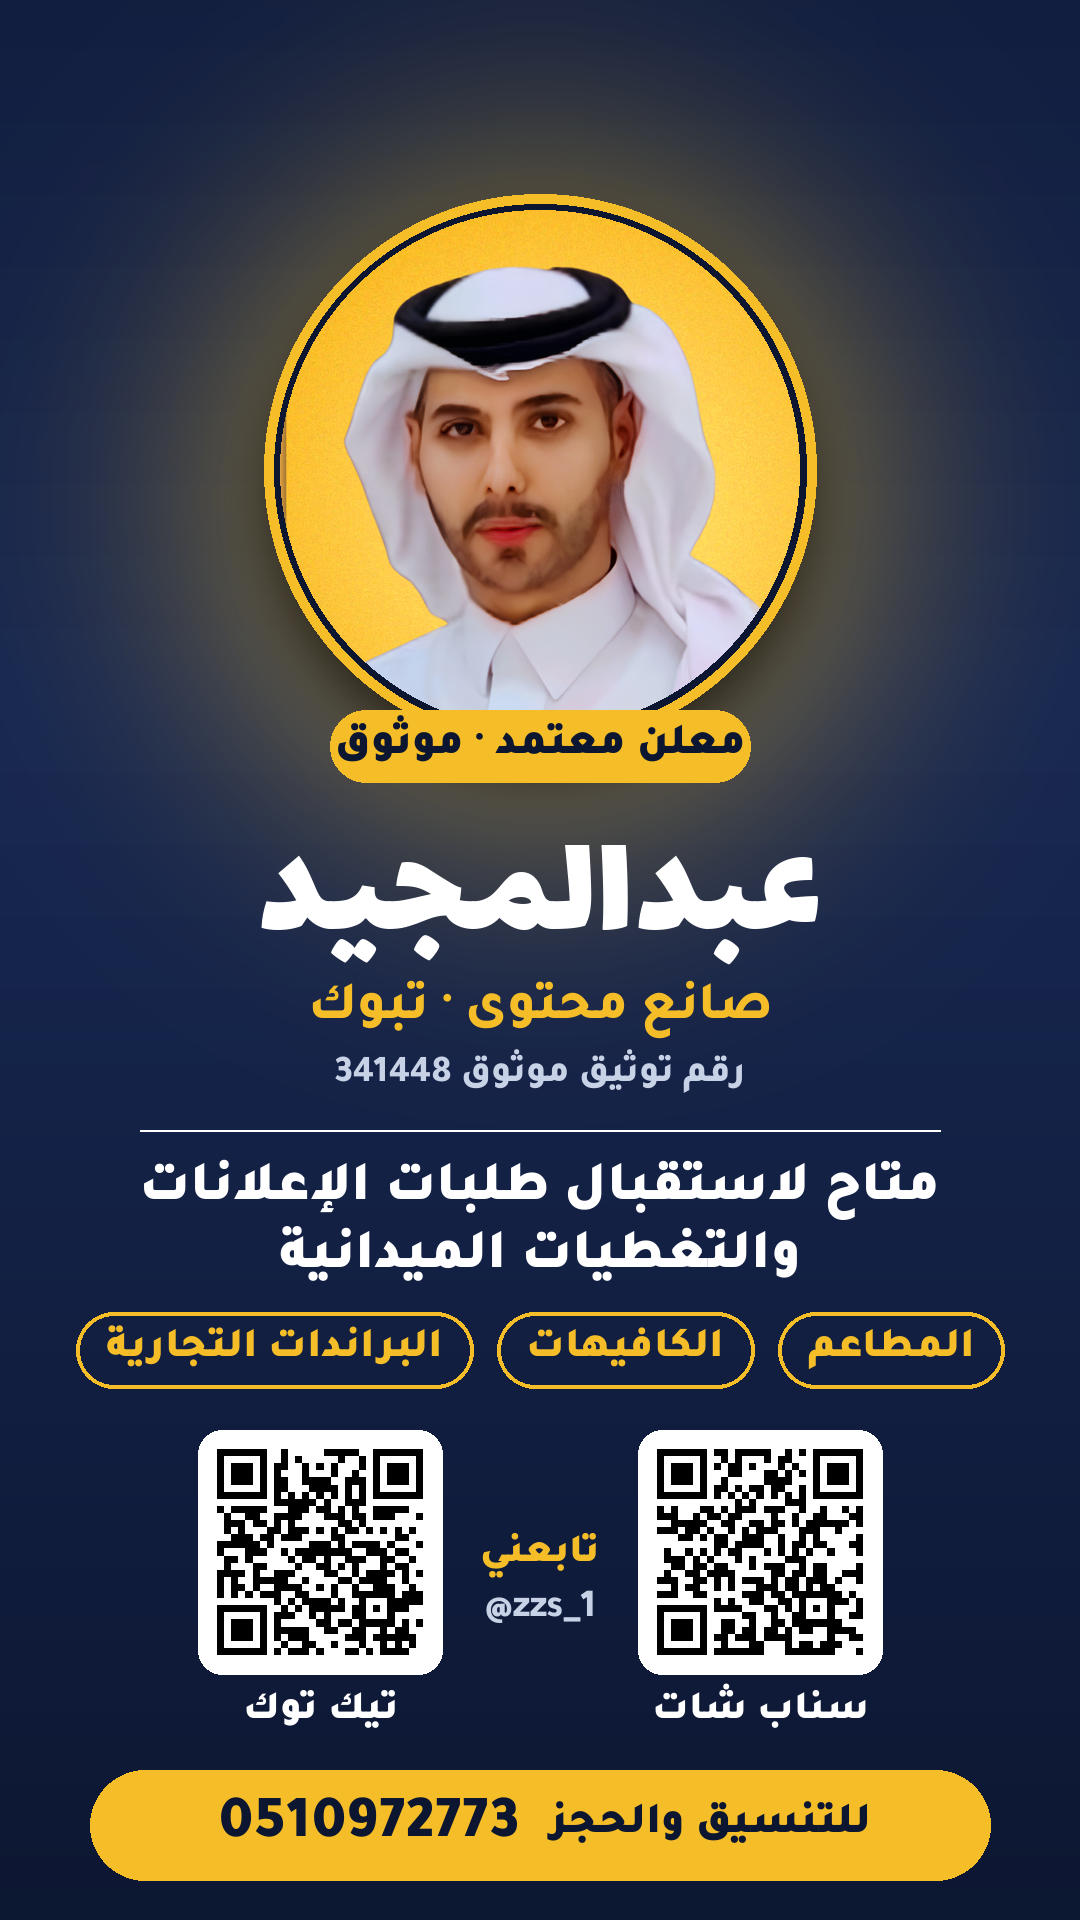
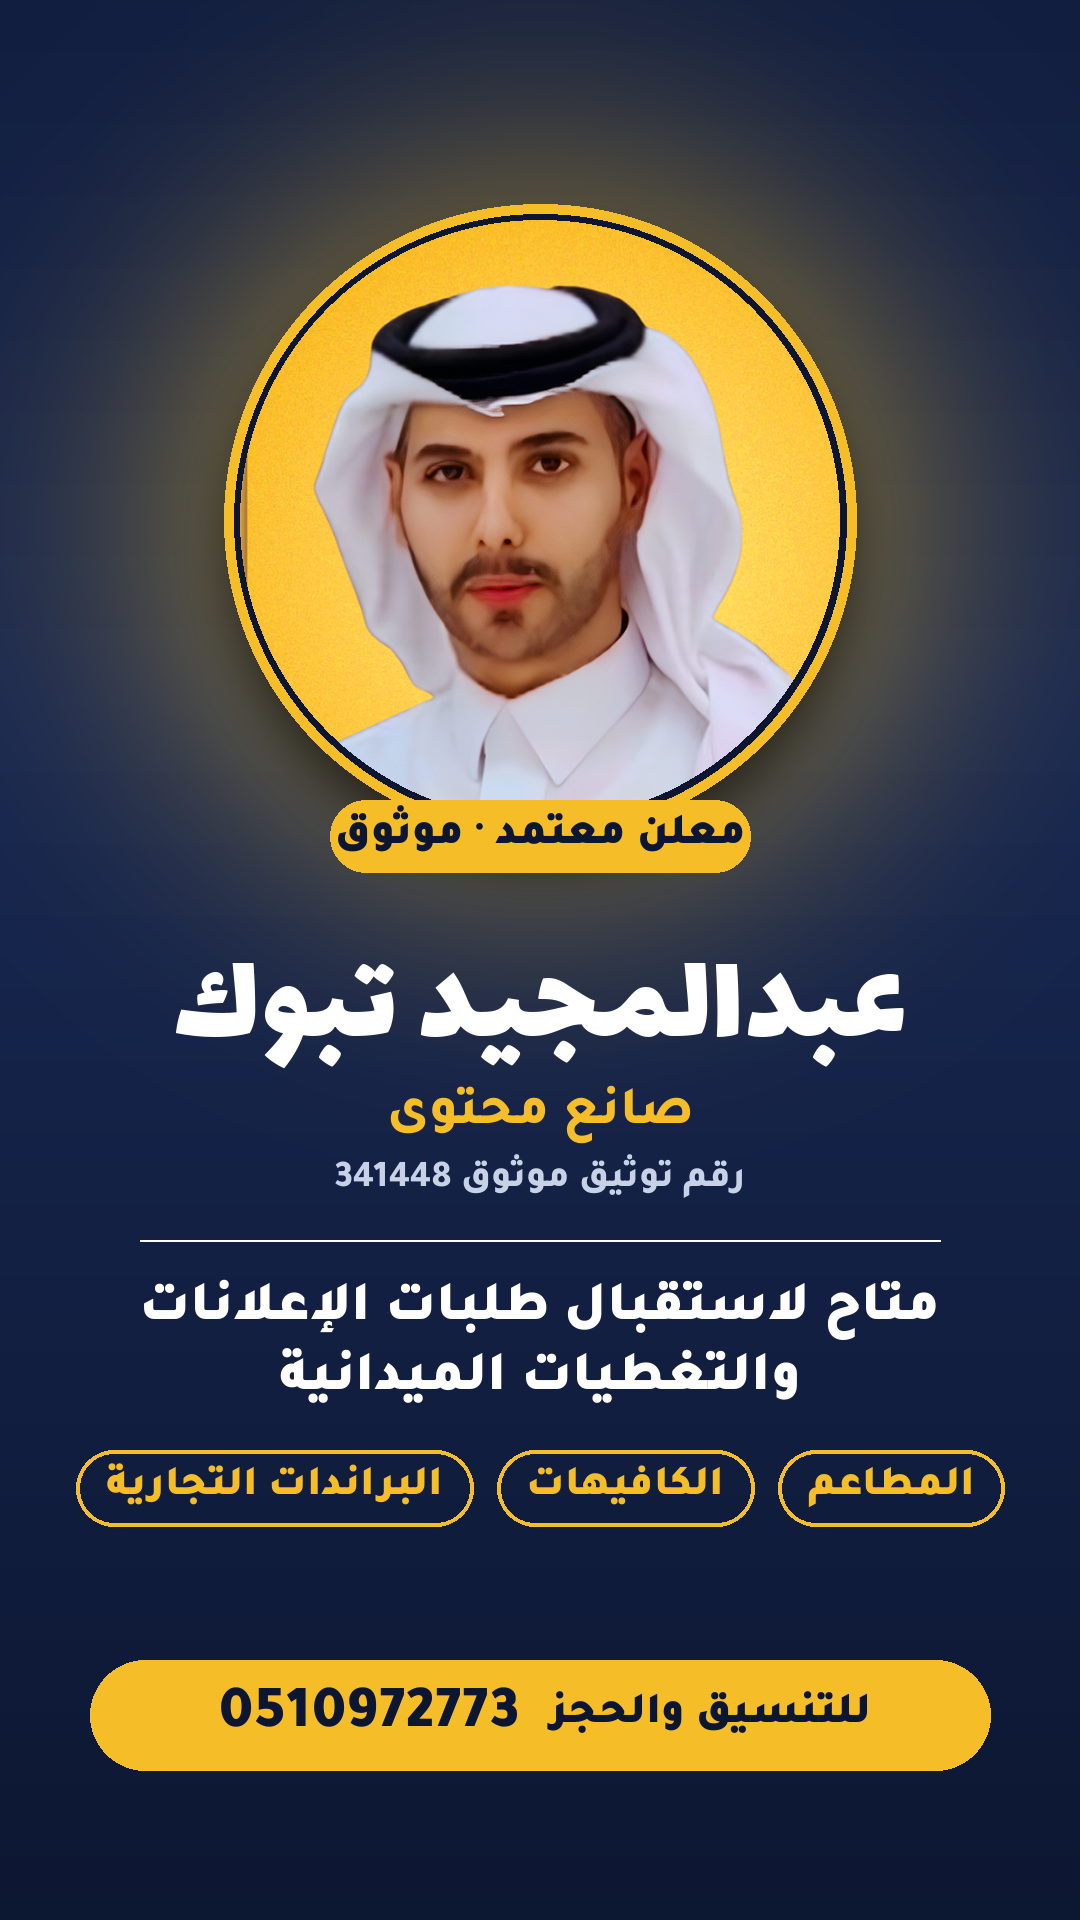
Poster: name عبدالمجيد تبوك, social QR codes removed
Claude-Session: https://claude.ai/code/session_01CcVGvtrbVu7xBBGWmrBYGh

diff --git a/poster/make_poster.py b/poster/make_poster.py
@@ -1,5 +1,5 @@
 """Ad-rate poster for عبدالمجيد (1080x1920 story size). usage: python3 -I make_poster.py photo.png out.png fonts_dir"""
-import sys, qrcode
+import sys
 from PIL import Image, ImageDraw, ImageFont, ImageFilter, ImageEnhance
 PH, OUT, FD = sys.argv[1:4]
 W, H = 1080, 1920
@@ -9,7 +9,7 @@ c = Image.new("RGB", (W, H), NAVY)
 # vertical gradient + soft gold glow
 g = Image.new("RGB", (1, H)); [g.putpixel((0, y), tuple(int(NAVY[i] + (NAVY2[i] - NAVY[i]) * (1 - abs(y - 700) / 1300)) for i in range(3))) for y in range(H)]
 c = g.resize((W, H))
-glow = Image.new("L", (W, H), 0); ImageDraw.Draw(glow).ellipse((190, 150, 890, 850), fill=120); glow = glow.filter(ImageFilter.GaussianBlur(120))
+glow = Image.new("L", (W, H), 0); ImageDraw.Draw(glow).ellipse((140, 150, 940, 900), fill=120); glow = glow.filter(ImageFilter.GaussianBlur(120))
 c.paste(Image.new("RGB", (W, H), GOLD), (0, 0), glow)
 d = ImageDraw.Draw(c)
 def text(xy, s, f, fill=WHITE, anchor="mm", stroke=0, sfill=None):
@@ -19,9 +19,9 @@ def text(xy, s, f, fill=WHITE, anchor="mm", stroke=0, sfill=None):
 p = Image.open(PH).convert("RGB")
 p = ImageEnhance.Contrast(ImageEnhance.Brightness(p).enhance(1.04)).enhance(1.06)
 p = ImageEnhance.Sharpness(p).enhance(1.3)
-D = 520; p = p.resize((D, D), Image.LANCZOS)
+D = 600; p = p.resize((D, D), Image.LANCZOS)
 m = Image.new("L", (D, D), 0); ImageDraw.Draw(m).ellipse((0, 0, D - 1, D - 1), fill=255)
-cx, cy = W // 2, 470
+cx, cy = W // 2, 520
 sh = Image.new("L", (W, H), 0); ImageDraw.Draw(sh).ellipse((cx - D // 2 - 10, cy - D // 2 + 20, cx + D // 2 + 10, cy + D // 2 + 40), fill=160)
 c.paste((0, 0, 0), (0, 0), sh.filter(ImageFilter.GaussianBlur(25)))
 d = ImageDraw.Draw(c)
@@ -32,32 +32,22 @@ c.paste(p, (cx - D // 2, cy - D // 2), m)
 d.rounded_rectangle((cx - 210, cy + D // 2 - 20, cx + 210, cy + D // 2 + 52), 36, fill=GOLD)
 text((cx, cy + D // 2 + 16), "معلن معتمد · موثوق", F("Tajawal-Black.ttf", 44), NAVY)
 # name + title
-text((cx, 900), "عبدالمجيد", F("Lalezar-Regular.ttf", 150), WHITE)
-text((cx, 1010), "صانع محتوى · تبوك", F("Tajawal-ExtraBold.ttf", 54), GOLD)
-text((cx, 1075), "رقم توثيق موثوق 341448", F("Tajawal-ExtraBold.ttf", 38), (200, 210, 230))
+text((cx, 1010), "عبدالمجيد تبوك", F("Lalezar-Regular.ttf", 130), WHITE)
+text((cx, 1115), "صانع محتوى", F("Tajawal-ExtraBold.ttf", 54), GOLD)
+text((cx, 1180), "رقم توثيق موثوق 341448", F("Tajawal-ExtraBold.ttf", 38), (200, 210, 230))
 # services
-d.line((140, 1130, 940, 1130), fill=(255, 255, 255, 60), width=2)
-text((cx, 1190), "متاح لاستقبال طلبات الإعلانات", F("Tajawal-Black.ttf", 56), WHITE)
-text((cx, 1258), "والتغطيات الميدانية", F("Tajawal-Black.ttf", 56), WHITE)
+d.line((140, 1240, 940, 1240), fill=(255, 255, 255, 60), width=2)
+text((cx, 1310), "متاح لاستقبال طلبات الإعلانات", F("Tajawal-Black.ttf", 56), WHITE)
+text((cx, 1380), "والتغطيات الميدانية", F("Tajawal-Black.ttf", 56), WHITE)
 chips = ["المطاعم", "الكافيهات", "البراندات التجارية"]
 fc = F("Tajawal-Black.ttf", 42); x = W - 90
 ws = [d.textlength(s, font=fc, direction="rtl") + 60 for s in chips]; gap = 24
 x = cx + (sum(ws) + gap * (len(ws) - 1)) / 2
 for s, w in zip(chips, ws):
-    d.rounded_rectangle((x - w, 1312, x, 1388), 38, outline=GOLD, width=4)
-    text((x - w / 2, 1350), s, fc, GOLD); x -= w + gap
-# QR codes
-def qr(url):
-    q = qrcode.QRCode(border=1, box_size=10); q.add_data(url); q.make(fit=True)
-    return q.make_image(fill_color="black", back_color="white").convert("RGB").resize((220, 220), Image.NEAREST)
-for url, lbl, x0 in (("https://www.tiktok.com/@zzs_1", "تيك توك", 210), ("https://snapchat.com/t/CDMKZQ8l", "سناب شات", 650)):
-    d.rounded_rectangle((x0 - 12, 1430, x0 + 232, 1674), 24, fill=WHITE)
-    c.paste(qr(url), (x0, 1442))
-    text((x0 + 110, 1712), lbl, F("Tajawal-Black.ttf", 40), WHITE)
-text((cx, 1555), "تابعني", F("Tajawal-Black.ttf", 40), GOLD)
-text((cx, 1610), "@zzs_1", F("Tajawal-ExtraBold.ttf", 40), (200, 210, 230))
+    d.rounded_rectangle((x - w, 1450, x, 1526), 38, outline=GOLD, width=4)
+    text((x - w / 2, 1488), s, fc, GOLD); x -= w + gap
 # phone bar
-d.rounded_rectangle((90, 1770, 990, 1880), 55, fill=GOLD)
-text((cx + 170, 1825), "للتنسيق والحجز", F("Tajawal-Black.ttf", 44), NAVY)
-text((cx - 170, 1827), "0510972773", F("Tajawal-Black.ttf", 60), NAVY)
+d.rounded_rectangle((90, 1660, 990, 1770), 55, fill=GOLD)
+text((cx + 170, 1715), "للتنسيق والحجز", F("Tajawal-Black.ttf", 44), NAVY)
+text((cx - 170, 1717), "0510972773", F("Tajawal-Black.ttf", 60), NAVY)
 c.save(OUT)
